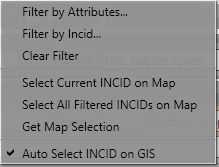
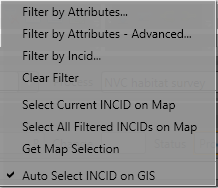
Updates for v3.1.2

diff --git a/conf.py b/conf.py
@@ -59,7 +59,7 @@ copyright = u'2011 HBIC, 2013-14, 2016 TVERC, 2014-15 SxBRC, 2019 LaSER'
 # The short X.Y version.
 version = '3.1'
 # The full version, including alpha/beta/rc tags.
-release = '3.1.1'
+release = '3.1.2'
 
 # The language for content autogenerated by Sphinx. Refer to documentation
 # for a list of supported languages.

diff --git a/interface/interface.rst b/interface/interface.rst
@@ -494,7 +494,7 @@ For example, figure :ref:`figUIBUS` indicates that the active filter currently c
 
 .. index::
 	single: Bulk Updates; Confirmation
-	single: Windows; Bulk Update Confirmation Window
+	single: Windows; Bulk Updates Confirmation Window
 
 .. _bulk_update_confirmation_window:
 
@@ -519,16 +519,30 @@ Delete Potential Priority Habitats
 	Whether existing potential priority habitats (those added manually by a user) should be deleted following during a bulk update. If unchecked, any existing potential priority habitats will be retained.
 
 Delete Existing Multiplex Rows
-	Whether existing multiplex (matrix, formation, management and complex) codes should be deleted following a change to the IHS Habitat during a bulk update. If unchecked, any existing multiplex codes will be retained, and any not be compatible with the new IHS Habitat will appear as errors when displayed in the main interface.
+	Whether existing multiplex (matrix, formation, management and complex) codes should be deleted following a change to the IHS Habitat during a bulk update. The available options are:
+
+		* All - Deletes **all** existing multiplex codes.
+		* Invalid - Deletes only existing multiplex codes that are not valid for the new IHS habitat.
+		* None - All existing multiplex codes will be retained, and any not be compatible with the new IHS Habitat will appear as errors when displayed in the main interface.
+
+	.. caution::
+		Use option **All** with caution. A warning message will appear when this option is selected.
+
+	.. note::
+		This option will only be displayed if a new IHS Habitat has been entered for the bulk update.
+
 
 Delete Existing Source Rows
-	Whether existing source rows will be deleted when one or more new sources are provided for a bulk update. This option cannot be controlled by the user as it automatically determined based on whether one or more new sources are provided or not.
+	[Read only] Whether existing source rows will be deleted when one or more new sources are provided for a bulk update.
+
+	.. note::
+		This option cannot be controlled by the user - it is automatically determined based on whether one or more new sources are provided or not.
 
 Create History Records
 	Whether history records will be created when a bulk update is applied.
 
-.. note::
-	The default values for all of the above fields (except for *Delete Existing Source Rows*) can be set in the options (see :ref:`options_bulk_update` for more details).
+	.. note::
+		The default values for all of the above fields (except for *Delete Existing Source Rows*) can be set in the options (see :ref:`options_bulk_update` for more details).
 
 
 .. raw:: latex
@@ -585,10 +599,12 @@ Process Flag
 		* 6 = Natural to Natural (only 1 source)
 		* 7 = Natural to Natural (two or more sources)
 		* 8 = Any to Unknown (any number of sources)
+		* 9 = Unknown to any (except unknown) (any number of sources)
 
 Spatial Flag
 	Assists with prioritising proposed updates by indicating whether the proposed habitat category (e.g. 'WB') is the same as the original habitat category and whether it is a higher or lower level in the habitat hierarchy, as follows:
 
+		* <blank> = Same category and habitat (e.g. GN1 to GN1)
 		* A = Same category but proposed habitat is higher level, i.e. a more detailed IHS habitat code (e.g. WB3 to WB36)
 		* B = Same category but proposed habitat is different and same or lower level (e.g. LF271 to LF272, LF271 to LF27)
 		* C = Different category/habitat and proposed habitat is higher level (e.g. WB3 to EM41)
@@ -639,6 +655,9 @@ Holding down the :guilabel:`Ctrl` key changes the :guilabel:`Reject` and :guilab
 For example, figure :ref:`figUIOUIS2` shows the 'INCID Status' section when the :guilabel:`Ctrl` key is pressed.
 
 
+.. index::
+	single: OSMM Updates; Filter
+
 .. _osmm_updates_filter:
 
 OSMM Updates Filter
@@ -657,8 +676,8 @@ When the review OSMM updates mode is first started, the OSMM Updates Filter wind
 OSMM Updates Summary
 	Displays a tabular summary of all the OSMM Updates in the database. Each row is a unique combination of the Process Flag, Spatial Flag, Change Flag and shows the number of records for each of the possible Status values (Rejected, Ignored, Proposed, Pending and Applied) and the total records for all statuses. Only combinations that exist in the database (rather than all possible combinations) will appear in the table.
 
-.. tip::
-	Selecting one of the rows in the table will set the Process, Spatial and Change values in the Filter by OSMM Updates section to those of the selected row. However, the Status field will not be changed and must be selected manually.
+	.. tip::
+		Selecting one of the rows in the table will set the Process, Spatial and Change values in the Filter by OSMM Updates section to those of the selected row. However, the Status field will not be changed and must be selected manually.
 
 Process
 	Allows the user to select a specific value, to select only proposed updates with a given Process flag, or select <all> to select proposed updates with any Process flag.
@@ -686,7 +705,24 @@ Cancel
 
 
 .. note::
-	The user can change the filter at any time when in Review OSMM Updates mode by clicking |filterbyattr| or :guilabel:`Select... --> Filter by Attributes...` to open the OSMM Updates Filter window.
+	The user can change the filter at any time when in Review OSMM Updates mode by clicking |filterbyattr| or :guilabel:`Select... --> Filter by Attributes...` to open the OSMM Updates Filter window,  or :guilabel:`Select... --> Filter by Attributes - Advanced ...` to open the Advanced Query Builder window.
+
+
+.. index::
+	single: OSMM Updates; Advanced Filter
+
+.. _osmm_updates_advanced_filter:
+
+
+OSMM Updates Filter - Advanced
+------------------------------
+
+As an alternative to the OSMM Updates Filter window that first appears when the review OSMM updates mode is first started, the advanced filter window can be used. This provides the user with greater control to filter which subset of proposed OSMM Updates to review.
+
+To open the advanced filter window:
+
+* Close the standard OSMM Updates Filter window
+* Click :guilabel:`Select... --> Filter by Attributes - Advacned...` to open the Advanced Query Builder window.
 
 
 .. raw:: latex
@@ -732,6 +768,35 @@ OSMM Updates Filter
 -------------------
 
 When the bulk OSMM updates mode is first started, the OSMM Updates Filter window will appear (see :ref:`osmm_updates_filter` for details). This allows the user to filter which subset of pending OSMM Updates the bulk update will apply to.
+
+
+.. index::
+	single: Windows; Bulk Apply OSMM Updates Confirmation Window
+
+.. _bulk_osmm_update_confirmation_window:
+
+Bulk OSMM Update Confirmation Window
+------------------------------------
+
+Before a bulk OSMM update is applied a confirmation window will appear with a number of options relating to the update as shown in the figure :ref:`figUIBOUC`.
+
+.. _figUIBOUC:
+
+.. figure:: figures/UserInterfaceBulkOSMMUpdateConfirmation.png
+	:align: center
+	:scale: 85
+
+	Bulk OSMM Update Confirmation Window
+
+
+Habitat Determination Quality
+	The accuracy with which any priority habitats have been determined (e.g. 'Definitely is the priority habitat'). This will apply to all priority habitats created as a result of the OSMM updates.
+
+Habitat Interpretation Quality
+	An assessment of the quality and age of the habitat source, and the relationship between the habitat type and the priority habitat type (e.g. 'Low (5)'). This will apply to all priority habitats created as a result of the OSMM updates.
+
+.. note::
+	The default values for these fields can be set in the options (see :ref:`options_bulk_update` for more details).
 
 
 .. raw:: latex
@@ -813,8 +878,8 @@ Map Document/Workspace
 Export Default Directory
 	Enables MapInfo users to set a default destination folder path for new GIS layers when performing an export (see :ref:`export_window` for more details). A different path to the default can also be selected during the export process.
 
-		.. note::
-			This option is only available if MapInfo is selected as the 'Preferred GIS Application'. The default export folder path for ArcGIS users is controlled by ArcGIS and cannot be altered by the HLU Tool.
+	.. note::
+		This option is only available if MapInfo is selected as the 'Preferred GIS Application'. The default export folder path for ArcGIS users is controlled by ArcGIS and cannot be altered by the HLU Tool.
 
 .. index::
 	single: Options; History
@@ -1242,8 +1307,8 @@ Export Format
 Selected Only
 	Allows the user to choose if only the selected features in the active GIS layer will be exported or if all features from the active GIS layer associated with the INCIDs in the active filter will be exported.
 
-.. note::
-	If the database records have been filtered the 'Selected only' checkbox is automatically ticked and the number of selected GIS features is shown (as seen in :ref:`figED`). Only the records related to the selected INCIDs and associated GIS features from the active GIS layer will be exported. Untick this checkbox to export all features from the active GIS layer associated with the INCIDs in the active filter. For details on how to filter records see :ref:`filter_by_attributes`.
+	.. note::
+		If the database records have been filtered the 'Selected only' checkbox is automatically ticked and the number of selected GIS features is shown (as seen in :ref:`figED`). Only the records related to the selected INCIDs and associated GIS features from the active GIS layer will be exported. Untick this checkbox to export all features from the active GIS layer associated with the INCIDs in the active filter. For details on how to filter records see :ref:`filter_by_attributes`.
 
 
 .. raw:: latex

diff --git a/menus/menus.rst b/menus/menus.rst
@@ -104,7 +104,7 @@ File Menu
 	Main Window - File Menu
 
 
-Export...
+| Export...
 ---------
 
 Allows users to export data from the HLU database to a GIS layer using a pre-defined export format.
@@ -138,10 +138,10 @@ Edit Menu
 	Main Window - Edit Menu
 
 
-.. note::
+| .. note::
 	When the tool is launched, the database tool is read-only by default as indicated. To enable edit mode, the user details must be configured in the database (see 'Lookup Tables' in the HLU Tool Technical Guide at `readthedocs.org/projects/hlutool-technicalguide <https://readthedocs.org/projects/hlutool-technicalguide/>`_ for details) and the spatial data must be editable in the GIS application.
 
-|copy| Copy
+copy| Copy
 -----------
 
 Copies selected attributes so they can be applied to these fields in another record.
@@ -210,7 +210,7 @@ View Menu
 	Main Window - View Menu
 
 
-|winsidebyside| Windows Side By Side
+| |winsidebyside| Windows Side By Side
 ------------------------------------
 
 Aligns the HLU window to the top left of the screen and expands the GIS window to fill the remaining area as shown in the figure :ref:`figWSBS`.
@@ -269,7 +269,7 @@ Select Menu
 	Main Window - Select Menu
 
 
-|filterbyattr| Filter by Attributes...
+| |filterbyattr| Filter by Attributes...
 --------------------------------------
 
 Allows users to filter the INCID records based upon non-spatial or complex criteria using the query builder. Only INCID records matching the filter criteria will be available for viewing using the record selectors.
@@ -277,6 +277,15 @@ Allows users to filter the INCID records based upon non-spatial or complex crite
 
 .. seealso::
 	See :ref:`query_builder_window` and `advanced_query_builder_window` for more information.
+
+Filter by Attributes - Advanced...
+----------------------------------
+
+When reviewing OSMM updates, allows users to filter the INCID records based upon non-spatial or complex criteria using the query builder. Only INCID records matching the filter criteria, and where the OSMM update status is not 'Pending' or 'Applied', will be available for reviewing.
+
+
+.. seealso::
+	See :ref:`advanced_query_builder_window` for more information.
 
 Filter by Incid...
 ------------------
@@ -347,7 +356,7 @@ Split/Merge Menu
 .. note::
 	All options in this menu are disabled until the database records have been filtered and a process and reason has been selected from the 'Process' and 'Reason' drop-down lists in the INCID section on the main window. For details on the INCID section see :ref:`incid_section`.
 
-|logicalsplit| Logical Split
+| |logicalsplit| Logical Split
 ----------------------------
 
 Splits features from the same current INCID into a new INCID. Logical splits are used to isolate one or more features from one INCID into a new INCID so that they can be updated independently.
@@ -400,7 +409,7 @@ Tools Menu
 	Main Window - Tools Menu
 
 
-|options| Options...
+| |options| Options...
 --------------------
 
 Allows users to alter many aspects of the HLU Tool configuration specific to their own requirements.

diff --git a/appendix/appendix.rst b/appendix/appendix.rst
@@ -10,6 +10,16 @@ Appendix
 Change Log
 ==========
 
+**3.1.2**
+(17th April 2020)
+
+    * :guilabel:`New` List all IHS habitat codes when habitat type is blank (*Fix090*)
+    * :guilabel:`New` Enable advanced filter when reviewing OSMM updates (*Fix092*)
+    * :guilabel:`Fixed` Enable bulk update options only if habitat has changed (*Fix087*)
+    * :guilabel:`Fixed` Add warning to delete multiplex codes option in bulk update (*Fix088*)
+    * :guilabel:`Fixed` Only enable split/merge functions after select from map (*Fix089*)
+    * :guilabel:`Fixed` Fix bug when applying bulk updates where multiplex codes are not replaced (*Fix091*)
+
 **3.1.1**
 (25th November 2019)
 
